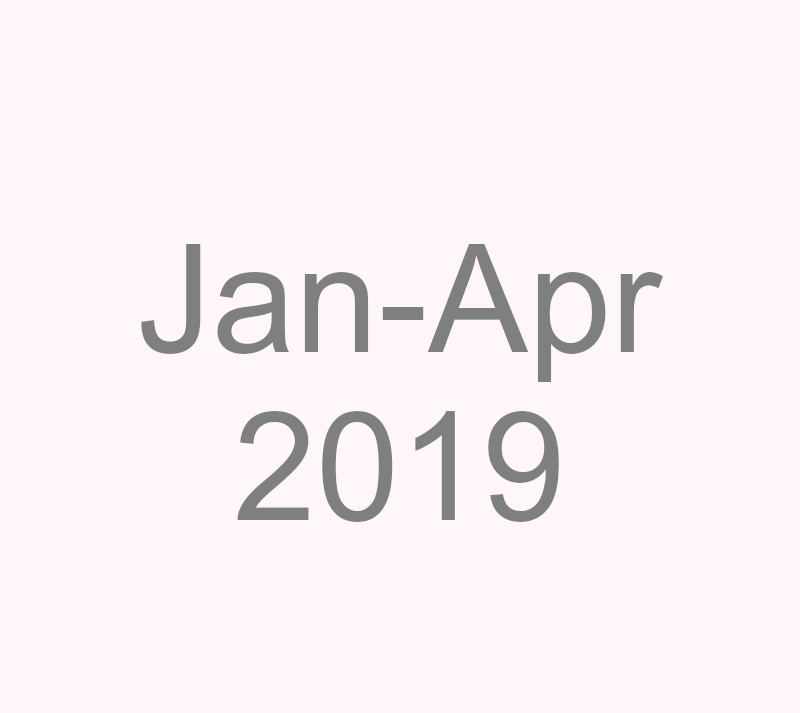
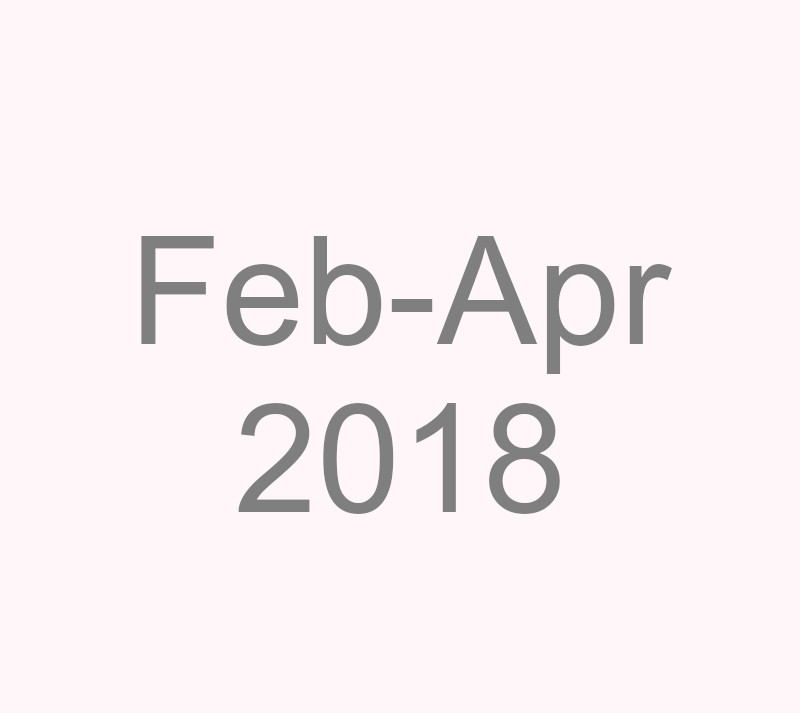
fix date

Changed region(s): [[0.1562, 0.3086, 0.8438, 0.7405], [0.2812, 0.5554, 0.5938, 0.7405], [0.5312, 0.7097, 0.5625, 0.7405]]

diff --git a/index.html b/index.html
@@ -186,6 +186,7 @@
 								
 							<p>In syaa Allah, bersama Ajeng, usaha mencapai Jannah-Nya menjadi lebih menyenangkan dan bermakna<br>
 								Semoga Allah mampukan kami untuk mencapai Jannah-Nya</p>
+							<p>— Luqman —</p>
 						</div>
 					</div>
 				</div>
@@ -203,6 +204,7 @@
 							<p>Bila pernikahan adalah ibadah<br>
 							Maka bersama dengannya tak akan pernah sia-sia<br>
 							Maka bersama dengannya, insyaAllah kami melangkah sedikit lebih dekat kepada-Nya.</p>
+							<p>— Ajeng —</p>
 						</div>
 					</div>
 				</div>
@@ -244,7 +246,7 @@
 							<div class="timeline-panel">
 								<div class="overlay overlay-2"></div>
 								<div class="timeline-body">
-									<p>Pertengahan Januari niat untuk membuka hubungan yang lebih serius, membawa Luqman berinteraksi dan berbincang lebih jauh dengan Ajeng. Sedangkan Ajeng sendiri mendapati Luqman sebagai lawan bicara yang menyenangkan. Ajeng tertarik dengan semua cerita dan ide-ide diskusi yang Luqman berikan. Mereka memiliki ketertarikan yang sama pada buku, film, dan beberapa kegiatan di samping pekerjaan. Dalam masa ini, Luqman mengumpulkan keberanian untuk mengajukan sebuah pertanyaan penting. Sedangkan Ajeng berusaha menata hati agar tak jatuh hati terlebih dahulu.</p>
+									<p>Awal Februari, niat untuk membuka hubungan yang lebih serius membawa Luqman berinteraksi dan berbincang lebih jauh dengan Ajeng. Sedangkan Ajeng sendiri mendapati Luqman sebagai lawan bicara yang menyenangkan. Ajeng tertarik dengan semua cerita dan ide-ide diskusi yang Luqman berikan. Mereka memiliki ketertarikan yang sama pada buku, film, dan beberapa kegiatan di samping pekerjaan. Dalam masa ini, Luqman mengumpulkan keberanian untuk mengajukan sebuah pertanyaan penting. Sedangkan Ajeng berusaha menata hati agar tak jatuh hati terlebih dahulu.</p>
 								</div>
 							</div>
 						</li>
